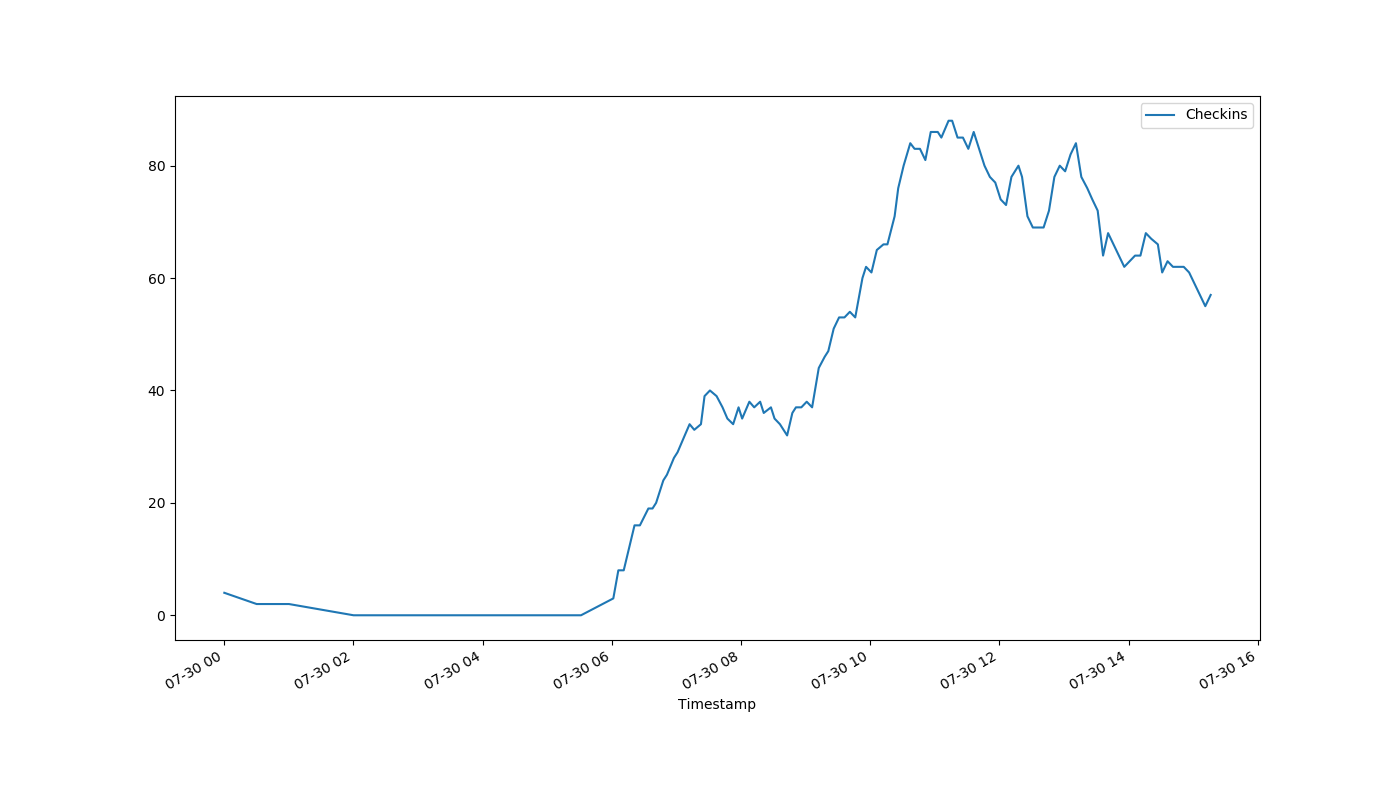
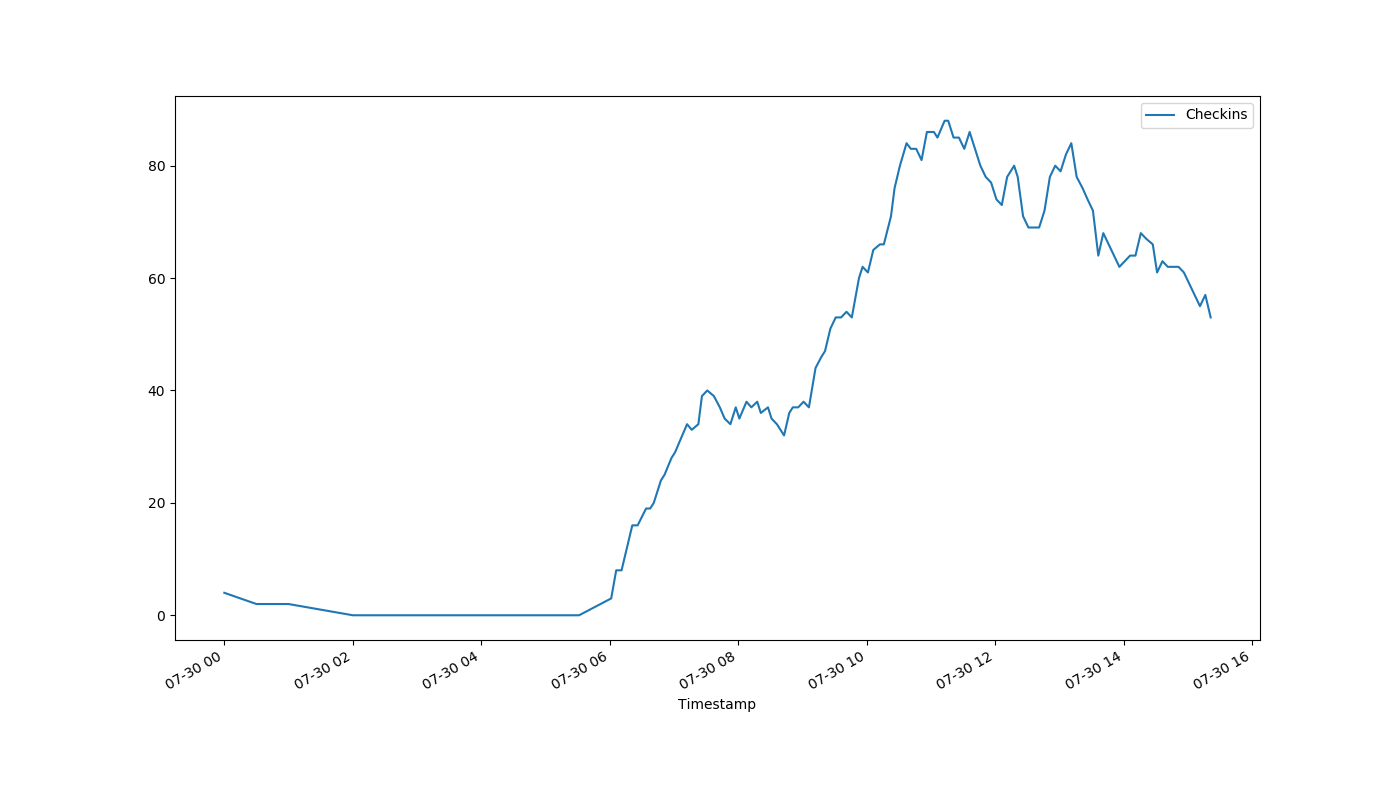
auto-Jul-30-15:21:59

diff --git a/index.html b/index.html
@@ -1,1 +1,1 @@
-<!DOCTYPE html><html><head><meta http-equiv="refresh" content="30"><link rel='stylesheet' href='holmcurrent.css'></head><body><p id='count'>57</p><div id='graph-wrap'><img id='graph' src='holmgraph-Jul-30.png'></div><p id='updated'>Last updated 15:16:18 / 15:16:17</p></body></html>
+<!DOCTYPE html><html><head><meta http-equiv="refresh" content="30"><link rel='stylesheet' href='holmcurrent.css'></head><body><p id='count'>53</p><div id='graph-wrap'><img id='graph' src='holmgraph-Jul-30.png'></div><p id='updated'>Last updated 15:21:18 / 15:21:17</p></body></html>
